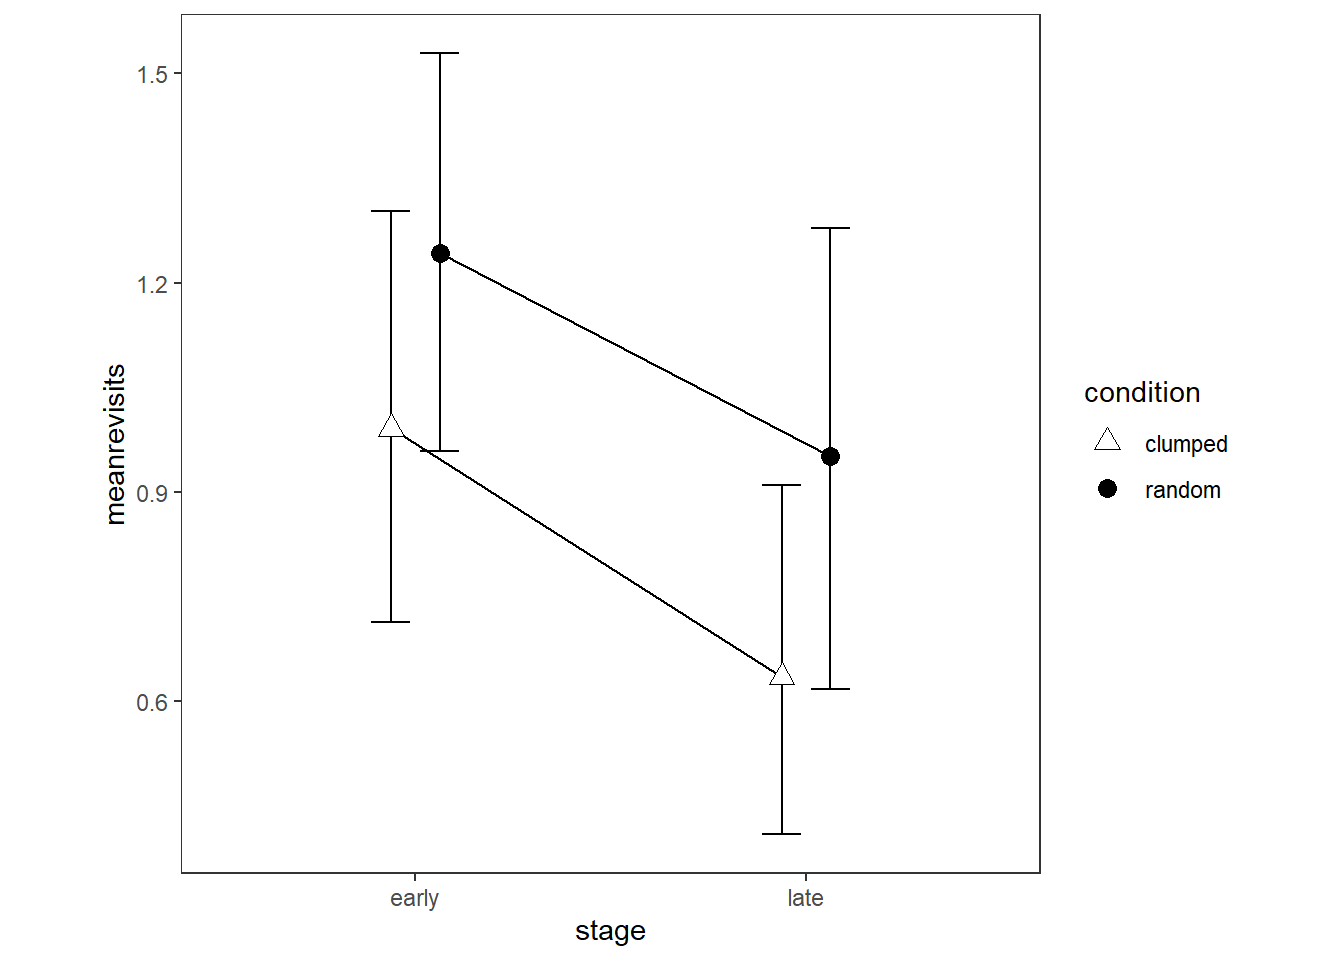
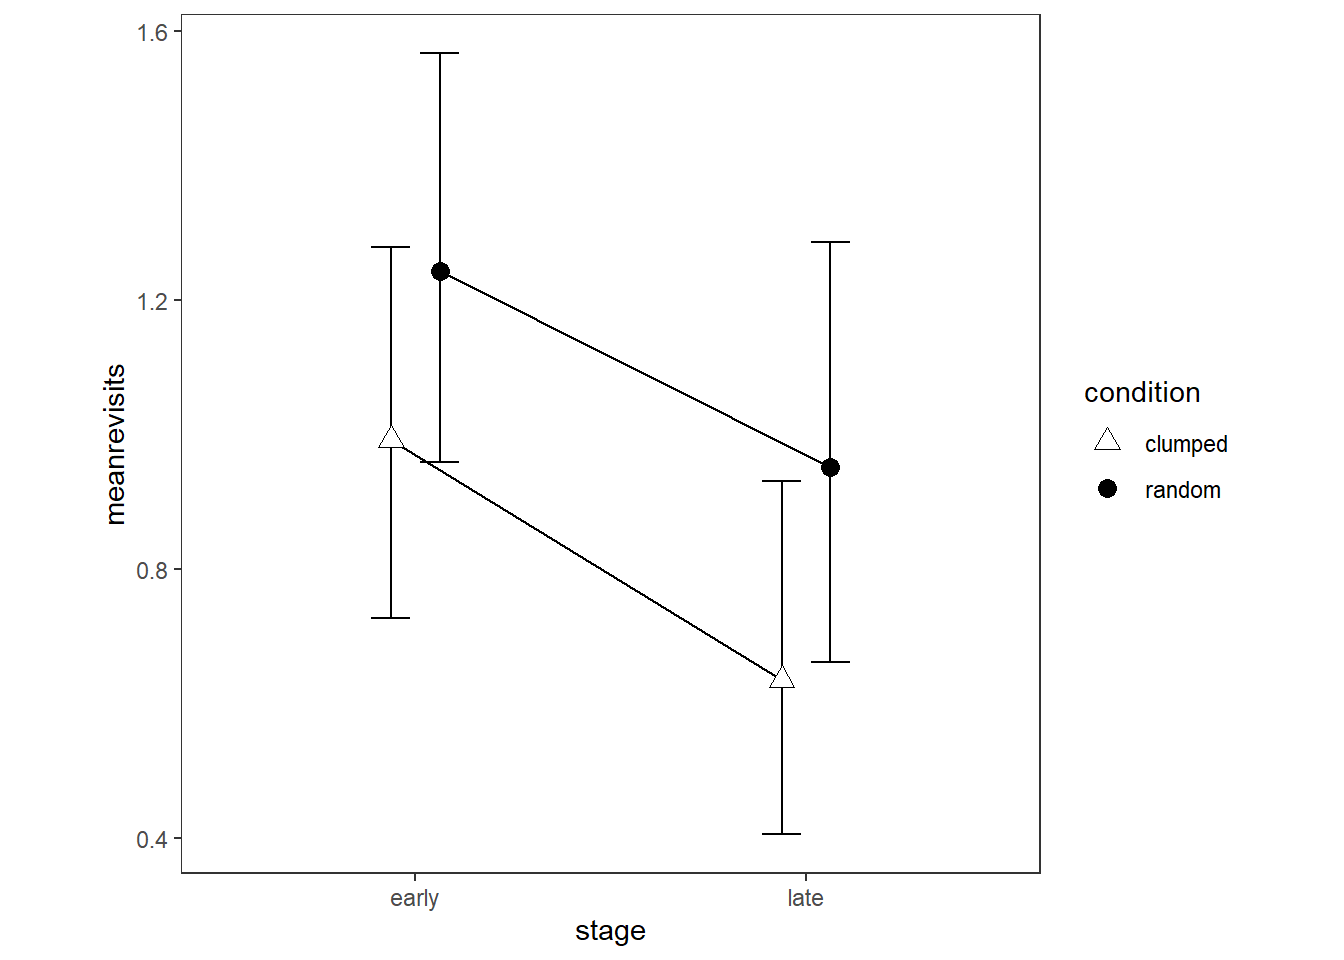
add e2 revisits

diff --git a/docs/number-of-revisits.html b/docs/number-of-revisits.html
@@ -4,17 +4,17 @@
 <meta http-equiv="Content-Type" content="text/html; charset=UTF-8">
 <meta charset="utf-8">
 <meta name="viewport" content="width=device-width, initial-scale=1, shrink-to-fit=no">
-<title>Chapter 4 Trial Duration | Foraging: introducing our gaze-contingent eye-tracking paradigm for studying foraging</title>
+<title>Chapter 11 Number of Revisits | Foraging: introducing our gaze-contingent eye-tracking paradigm for studying foraging</title>
 <meta name="author" content="Matthew Green">
-<meta name="description" content="Contents">
+<meta name="description" content="Experiment 2">
 <meta name="generator" content="bookdown 0.26 with bs4_book()">
-<meta property="og:title" content="Chapter 4 Trial Duration | Foraging: introducing our gaze-contingent eye-tracking paradigm for studying foraging">
+<meta property="og:title" content="Chapter 11 Number of Revisits | Foraging: introducing our gaze-contingent eye-tracking paradigm for studying foraging">
 <meta property="og:type" content="book">
-<meta property="og:url" content="https://mjgreen.github.io/foraging-paradigm-paper-2022/trial-duration.html">
-<meta property="og:description" content="Contents">
+<meta property="og:url" content="https://mjgreen.github.io/foraging-paradigm-paper-2022/number-of-revisits.html">
+<meta property="og:description" content="Experiment 2">
 <meta name="twitter:card" content="summary">
-<meta name="twitter:title" content="Chapter 4 Trial Duration | Foraging: introducing our gaze-contingent eye-tracking paradigm for studying foraging">
-<meta name="twitter:description" content="Contents">
+<meta name="twitter:title" content="Chapter 11 Number of Revisits | Foraging: introducing our gaze-contingent eye-tracking paradigm for studying foraging">
+<meta name="twitter:description" content="Experiment 2">
 <!-- JS --><script src="https://cdnjs.cloudflare.com/ajax/libs/clipboard.js/2.0.6/clipboard.min.js" integrity="sha256-inc5kl9MA1hkeYUt+EC3BhlIgyp/2jDIyBLS6k3UxPI=" crossorigin="anonymous"></script><script src="https://cdnjs.cloudflare.com/ajax/libs/fuse.js/6.4.6/fuse.js" integrity="sha512-zv6Ywkjyktsohkbp9bb45V6tEMoWhzFzXis+LrMehmJZZSys19Yxf1dopHx7WzIKxr5tK2dVcYmaCk2uqdjF4A==" crossorigin="anonymous"></script><script src="https://kit.fontawesome.com/6ecbd6c532.js" crossorigin="anonymous"></script><script src="libs/jquery-3.6.0/jquery-3.6.0.min.js"></script><meta name="viewport" content="width=device-width, initial-scale=1, shrink-to-fit=no">
 <link href="libs/bootstrap-4.6.0/bootstrap.min.css" rel="stylesheet">
 <script src="libs/bootstrap-4.6.0/bootstrap.bundle.min.js"></script><script src="libs/bs3compat-0.3.1/transition.js"></script><script src="libs/bs3compat-0.3.1/tabs.js"></script><script src="libs/bs3compat-0.3.1/bs3compat.js"></script><link href="libs/bs4_book-1.0.0/bs4_book.css" rel="stylesheet">
@@ -48,7 +48,7 @@
 <li class="book-part">Experiment One</li>
 <li><a class="" href="introduction.html"><span class="header-section-number">2</span> Introduction</a></li>
 <li><a class="" href="number-of-trees.html"><span class="header-section-number">3</span> Number of Trees</a></li>
-<li><a class="active" href="trial-duration.html"><span class="header-section-number">4</span> Trial Duration</a></li>
+<li><a class="" href="trial-duration.html"><span class="header-section-number">4</span> Trial Duration</a></li>
 <li><a class="" href="revisits-per-trial.html"><span class="header-section-number">5</span> Revisits Per Trial</a></li>
 <li><a class="" href="retrieval-rate.html"><span class="header-section-number">6</span> Retrieval Rate</a></li>
 <li><a class="" href="inter-tree-distance.html"><span class="header-section-number">7</span> Inter-tree distance</a></li>
@@ -56,7 +56,7 @@
 <li><a class="" href="introduction-1.html"><span class="header-section-number">8</span> Introduction</a></li>
 <li><a class="" href="number-of-trees-1.html"><span class="header-section-number">9</span> Number of trees</a></li>
 <li><a class="" href="trial-duration-1.html"><span class="header-section-number">10</span> Trial Duration</a></li>
-<li><a class="" href="number-of-revisits.html"><span class="header-section-number">11</span> Number of Revisits</a></li>
+<li><a class="active" href="number-of-revisits.html"><span class="header-section-number">11</span> Number of Revisits</a></li>
 <li><a class="" href="retrieval-rate-1.html"><span class="header-section-number">12</span> Retrieval Rate</a></li>
 <li><a class="" href="inter-tree-distance-1.html"><span class="header-section-number">13</span> Inter-tree-distance</a></li>
 <li><a class="" href="references.html">References</a></li>
@@ -70,24 +70,26 @@
         </div>
       </nav>
 </div>
-  </header><main class="col-sm-12 col-md-9 col-lg-7" id="content"><div id="trial-duration" class="section level1" number="4">
+  </header><main class="col-sm-12 col-md-9 col-lg-7" id="content"><div id="number-of-revisits" class="section level1" number="11">
 <h1>
-<span class="header-section-number">4</span> Trial Duration<a class="anchor" aria-label="anchor" href="#trial-duration"><i class="fas fa-link"></i></a>
+<span class="header-section-number">11</span> Number of Revisits<a class="anchor" aria-label="anchor" href="#number-of-revisits"><i class="fas fa-link"></i></a>
 </h1>
-<p>Contents</p>
+<p>Experiment 2</p>
+<div class="inline-figure"><img src="e2_tables/e2_nrevisits_ANOVA.png" width="50%"></div>
+<div class="inline-figure"><img src="e2_plots/e2_nrevisits_PLOT2.png" width="75%"></div>
 
 </div>
   <div class="chapter-nav">
-<div class="prev"><a href="number-of-trees.html"><span class="header-section-number">3</span> Number of Trees</a></div>
-<div class="next"><a href="revisits-per-trial.html"><span class="header-section-number">5</span> Revisits Per Trial</a></div>
+<div class="prev"><a href="trial-duration-1.html"><span class="header-section-number">10</span> Trial Duration</a></div>
+<div class="next"><a href="retrieval-rate-1.html"><span class="header-section-number">12</span> Retrieval Rate</a></div>
 </div></main><div class="col-md-3 col-lg-2 d-none d-md-block sidebar sidebar-chapter">
     <nav id="toc" data-toggle="toc" aria-label="On this page"><h2>On this page</h2>
-      <ul class="nav navbar-nav"><li><a class="nav-link" href="#trial-duration"><span class="header-section-number">4</span> Trial Duration</a></li></ul>
+      <ul class="nav navbar-nav"><li><a class="nav-link" href="#number-of-revisits"><span class="header-section-number">11</span> Number of Revisits</a></li></ul>
 
       <div class="book-extra">
         <ul class="list-unstyled">
-<li><a id="book-source" href="https://mjgreen.github.io/foraging-paradigm-paper-2022//blob/master/001-20-trial-duration.Rmd">View source <i class="fab fa-gitlab"></i></a></li>
-          <li><a id="book-edit" href="https://mjgreen.github.io/foraging-paradigm-paper-2022//edit/master/001-20-trial-duration.Rmd">Edit this page <i class="fab fa-gitlab"></i></a></li>
+<li><a id="book-source" href="https://mjgreen.github.io/foraging-paradigm-paper-2022//blob/master/002-30-revisits-per-trial.Rmd">View source <i class="fab fa-gitlab"></i></a></li>
+          <li><a id="book-edit" href="https://mjgreen.github.io/foraging-paradigm-paper-2022//edit/master/002-30-revisits-per-trial.Rmd">Edit this page <i class="fab fa-gitlab"></i></a></li>
         </ul>
 </div>
     </nav>

diff --git a/docs/trial-duration-1.html b/docs/trial-duration-1.html
@@ -56,7 +56,7 @@
 <li><a class="" href="introduction-1.html"><span class="header-section-number">8</span> Introduction</a></li>
 <li><a class="" href="number-of-trees-1.html"><span class="header-section-number">9</span> Number of trees</a></li>
 <li><a class="active" href="trial-duration-1.html"><span class="header-section-number">10</span> Trial Duration</a></li>
-<li><a class="" href="revisits-per-trial-1.html"><span class="header-section-number">11</span> Revisits Per Trial</a></li>
+<li><a class="" href="number-of-revisits.html"><span class="header-section-number">11</span> Number of Revisits</a></li>
 <li><a class="" href="retrieval-rate-1.html"><span class="header-section-number">12</span> Retrieval Rate</a></li>
 <li><a class="" href="inter-tree-distance-1.html"><span class="header-section-number">13</span> Inter-tree-distance</a></li>
 <li><a class="" href="references.html">References</a></li>
@@ -81,7 +81,7 @@
 </div>
   <div class="chapter-nav">
 <div class="prev"><a href="number-of-trees-1.html"><span class="header-section-number">9</span> Number of trees</a></div>
-<div class="next"><a href="revisits-per-trial-1.html"><span class="header-section-number">11</span> Revisits Per Trial</a></div>
+<div class="next"><a href="number-of-revisits.html"><span class="header-section-number">11</span> Number of Revisits</a></div>
 </div></main><div class="col-md-3 col-lg-2 d-none d-md-block sidebar sidebar-chapter">
     <nav id="toc" data-toggle="toc" aria-label="On this page"><h2>On this page</h2>
       <ul class="nav navbar-nav"><li><a class="nav-link" href="#trial-duration-1"><span class="header-section-number">10</span> Trial Duration</a></li></ul>
@@ -101,7 +101,7 @@
 <footer class="bg-primary text-light mt-5"><div class="container"><div class="row">
 
   <div class="col-12 col-md-6 mt-3">
-    <p>"<strong>Foraging: introducing our gaze-contingent eye-tracking paradigm for studying foraging</strong>" was written by Matthew Green. It was last built on Tuesday 17 May 2022 at 19:25:00.</p>
+    <p>"<strong>Foraging: introducing our gaze-contingent eye-tracking paradigm for studying foraging</strong>" was written by Matthew Green. It was last built on Tuesday 17 May 2022 at 19:39:22.</p>
   </div>
 
   <div class="col-12 col-md-6 mt-3">

diff --git a/docs/retrieval-rate-1.html b/docs/retrieval-rate-1.html
@@ -56,7 +56,7 @@
 <li><a class="" href="introduction-1.html"><span class="header-section-number">8</span> Introduction</a></li>
 <li><a class="" href="number-of-trees-1.html"><span class="header-section-number">9</span> Number of trees</a></li>
 <li><a class="" href="trial-duration-1.html"><span class="header-section-number">10</span> Trial Duration</a></li>
-<li><a class="" href="revisits-per-trial-1.html"><span class="header-section-number">11</span> Revisits Per Trial</a></li>
+<li><a class="" href="number-of-revisits.html"><span class="header-section-number">11</span> Number of Revisits</a></li>
 <li><a class="active" href="retrieval-rate-1.html"><span class="header-section-number">12</span> Retrieval Rate</a></li>
 <li><a class="" href="inter-tree-distance-1.html"><span class="header-section-number">13</span> Inter-tree-distance</a></li>
 <li><a class="" href="references.html">References</a></li>
@@ -78,7 +78,7 @@
 
 </div>
   <div class="chapter-nav">
-<div class="prev"><a href="revisits-per-trial-1.html"><span class="header-section-number">11</span> Revisits Per Trial</a></div>
+<div class="prev"><a href="number-of-revisits.html"><span class="header-section-number">11</span> Number of Revisits</a></div>
 <div class="next"><a href="inter-tree-distance-1.html"><span class="header-section-number">13</span> Inter-tree-distance</a></div>
 </div></main><div class="col-md-3 col-lg-2 d-none d-md-block sidebar sidebar-chapter">
     <nav id="toc" data-toggle="toc" aria-label="On this page"><h2>On this page</h2>
@@ -99,7 +99,7 @@
 <footer class="bg-primary text-light mt-5"><div class="container"><div class="row">
 
   <div class="col-12 col-md-6 mt-3">
-    <p>"<strong>Foraging: introducing our gaze-contingent eye-tracking paradigm for studying foraging</strong>" was written by Matthew Green. It was last built on Tuesday 17 May 2022 at 19:25:00.</p>
+    <p>"<strong>Foraging: introducing our gaze-contingent eye-tracking paradigm for studying foraging</strong>" was written by Matthew Green. It was last built on Tuesday 17 May 2022 at 19:39:22.</p>
   </div>
 
   <div class="col-12 col-md-6 mt-3">

diff --git a/docs/references.html b/docs/references.html
@@ -62,7 +62,7 @@ set in the _output.yml file.&lt;/p&gt;">
 <li><a class="" href="introduction-1.html"><span class="header-section-number">8</span> Introduction</a></li>
 <li><a class="" href="number-of-trees-1.html"><span class="header-section-number">9</span> Number of trees</a></li>
 <li><a class="" href="trial-duration-1.html"><span class="header-section-number">10</span> Trial Duration</a></li>
-<li><a class="" href="revisits-per-trial-1.html"><span class="header-section-number">11</span> Revisits Per Trial</a></li>
+<li><a class="" href="number-of-revisits.html"><span class="header-section-number">11</span> Number of Revisits</a></li>
 <li><a class="" href="retrieval-rate-1.html"><span class="header-section-number">12</span> Retrieval Rate</a></li>
 <li><a class="" href="inter-tree-distance-1.html"><span class="header-section-number">13</span> Inter-tree-distance</a></li>
 <li><a class="active" href="references.html">References</a></li>
@@ -106,7 +106,7 @@ set in the _output.yml file.&lt;/p&gt;">
 <footer class="bg-primary text-light mt-5"><div class="container"><div class="row">
 
   <div class="col-12 col-md-6 mt-3">
-    <p>"<strong>Foraging: introducing our gaze-contingent eye-tracking paradigm for studying foraging</strong>" was written by Matthew Green. It was last built on Tuesday 17 May 2022 at 19:25:00.</p>
+    <p>"<strong>Foraging: introducing our gaze-contingent eye-tracking paradigm for studying foraging</strong>" was written by Matthew Green. It was last built on Tuesday 17 May 2022 at 19:39:22.</p>
   </div>
 
   <div class="col-12 col-md-6 mt-3">

diff --git a/docs/index.html b/docs/index.html
@@ -62,7 +62,7 @@ set in the _output.yml file.&lt;/p&gt;">
 <li><a class="" href="introduction-1.html"><span class="header-section-number">8</span> Introduction</a></li>
 <li><a class="" href="number-of-trees-1.html"><span class="header-section-number">9</span> Number of trees</a></li>
 <li><a class="" href="trial-duration-1.html"><span class="header-section-number">10</span> Trial Duration</a></li>
-<li><a class="" href="revisits-per-trial-1.html"><span class="header-section-number">11</span> Revisits Per Trial</a></li>
+<li><a class="" href="number-of-revisits.html"><span class="header-section-number">11</span> Number of Revisits</a></li>
 <li><a class="" href="retrieval-rate-1.html"><span class="header-section-number">12</span> Retrieval Rate</a></li>
 <li><a class="" href="inter-tree-distance-1.html"><span class="header-section-number">13</span> Inter-tree-distance</a></li>
 <li><a class="" href="references.html">References</a></li>
@@ -108,7 +108,7 @@ set in the _output.yml file.&lt;/p&gt;">
 <footer class="bg-primary text-light mt-5"><div class="container"><div class="row">
 
   <div class="col-12 col-md-6 mt-3">
-    <p>"<strong>Foraging: introducing our gaze-contingent eye-tracking paradigm for studying foraging</strong>" was written by Matthew Green. It was last built on Tuesday 17 May 2022 at 19:25:00.</p>
+    <p>"<strong>Foraging: introducing our gaze-contingent eye-tracking paradigm for studying foraging</strong>" was written by Matthew Green. It was last built on Tuesday 17 May 2022 at 19:39:22.</p>
   </div>
 
   <div class="col-12 col-md-6 mt-3">

diff --git a/docs/404.html b/docs/404.html
@@ -56,7 +56,7 @@
 <li><a class="" href="introduction-1.html"><span class="header-section-number">8</span> Introduction</a></li>
 <li><a class="" href="number-of-trees-1.html"><span class="header-section-number">9</span> Number of trees</a></li>
 <li><a class="" href="trial-duration-1.html"><span class="header-section-number">10</span> Trial Duration</a></li>
-<li><a class="" href="revisits-per-trial-1.html"><span class="header-section-number">11</span> Revisits Per Trial</a></li>
+<li><a class="" href="number-of-revisits.html"><span class="header-section-number">11</span> Number of Revisits</a></li>
 <li><a class="" href="retrieval-rate-1.html"><span class="header-section-number">12</span> Retrieval Rate</a></li>
 <li><a class="" href="inter-tree-distance-1.html"><span class="header-section-number">13</span> Inter-tree-distance</a></li>
 <li><a class="" href="references.html">References</a></li>
@@ -89,7 +89,7 @@ the table of contents to find the page you are looking for.</p>
 <footer class="bg-primary text-light mt-5"><div class="container"><div class="row">
 
   <div class="col-12 col-md-6 mt-3">
-    <p>"<strong>Foraging: introducing our gaze-contingent eye-tracking paradigm for studying foraging</strong>" was written by Matthew Green. It was last built on Tuesday 17 May 2022 at 19:25:00.</p>
+    <p>"<strong>Foraging: introducing our gaze-contingent eye-tracking paradigm for studying foraging</strong>" was written by Matthew Green. It was last built on Tuesday 17 May 2022 at 19:39:22.</p>
   </div>
 
   <div class="col-12 col-md-6 mt-3">

diff --git a/docs/introduction-1.html b/docs/introduction-1.html
@@ -56,7 +56,7 @@
 <li><a class="active" href="introduction-1.html"><span class="header-section-number">8</span> Introduction</a></li>
 <li><a class="" href="number-of-trees-1.html"><span class="header-section-number">9</span> Number of trees</a></li>
 <li><a class="" href="trial-duration-1.html"><span class="header-section-number">10</span> Trial Duration</a></li>
-<li><a class="" href="revisits-per-trial-1.html"><span class="header-section-number">11</span> Revisits Per Trial</a></li>
+<li><a class="" href="number-of-revisits.html"><span class="header-section-number">11</span> Number of Revisits</a></li>
 <li><a class="" href="retrieval-rate-1.html"><span class="header-section-number">12</span> Retrieval Rate</a></li>
 <li><a class="" href="inter-tree-distance-1.html"><span class="header-section-number">13</span> Inter-tree-distance</a></li>
 <li><a class="" href="references.html">References</a></li>
@@ -105,7 +105,7 @@
 <footer class="bg-primary text-light mt-5"><div class="container"><div class="row">
 
   <div class="col-12 col-md-6 mt-3">
-    <p>"<strong>Foraging: introducing our gaze-contingent eye-tracking paradigm for studying foraging</strong>" was written by Matthew Green. It was last built on Tuesday 17 May 2022 at 19:25:00.</p>
+    <p>"<strong>Foraging: introducing our gaze-contingent eye-tracking paradigm for studying foraging</strong>" was written by Matthew Green. It was last built on Tuesday 17 May 2022 at 19:39:22.</p>
   </div>
 
   <div class="col-12 col-md-6 mt-3">

diff --git a/docs/number-of-trees-1.html b/docs/number-of-trees-1.html
@@ -56,7 +56,7 @@
 <li><a class="" href="introduction-1.html"><span class="header-section-number">8</span> Introduction</a></li>
 <li><a class="active" href="number-of-trees-1.html"><span class="header-section-number">9</span> Number of trees</a></li>
 <li><a class="" href="trial-duration-1.html"><span class="header-section-number">10</span> Trial Duration</a></li>
-<li><a class="" href="revisits-per-trial-1.html"><span class="header-section-number">11</span> Revisits Per Trial</a></li>
+<li><a class="" href="number-of-revisits.html"><span class="header-section-number">11</span> Number of Revisits</a></li>
 <li><a class="" href="retrieval-rate-1.html"><span class="header-section-number">12</span> Retrieval Rate</a></li>
 <li><a class="" href="inter-tree-distance-1.html"><span class="header-section-number">13</span> Inter-tree-distance</a></li>
 <li><a class="" href="references.html">References</a></li>
@@ -101,7 +101,7 @@
 <footer class="bg-primary text-light mt-5"><div class="container"><div class="row">
 
   <div class="col-12 col-md-6 mt-3">
-    <p>"<strong>Foraging: introducing our gaze-contingent eye-tracking paradigm for studying foraging</strong>" was written by Matthew Green. It was last built on Tuesday 17 May 2022 at 19:25:00.</p>
+    <p>"<strong>Foraging: introducing our gaze-contingent eye-tracking paradigm for studying foraging</strong>" was written by Matthew Green. It was last built on Tuesday 17 May 2022 at 19:39:22.</p>
   </div>
 
   <div class="col-12 col-md-6 mt-3">

diff --git a/docs/inter-tree-distance-1.html b/docs/inter-tree-distance-1.html
@@ -56,7 +56,7 @@
 <li><a class="" href="introduction-1.html"><span class="header-section-number">8</span> Introduction</a></li>
 <li><a class="" href="number-of-trees-1.html"><span class="header-section-number">9</span> Number of trees</a></li>
 <li><a class="" href="trial-duration-1.html"><span class="header-section-number">10</span> Trial Duration</a></li>
-<li><a class="" href="revisits-per-trial-1.html"><span class="header-section-number">11</span> Revisits Per Trial</a></li>
+<li><a class="" href="number-of-revisits.html"><span class="header-section-number">11</span> Number of Revisits</a></li>
 <li><a class="" href="retrieval-rate-1.html"><span class="header-section-number">12</span> Retrieval Rate</a></li>
 <li><a class="active" href="inter-tree-distance-1.html"><span class="header-section-number">13</span> Inter-tree-distance</a></li>
 <li><a class="" href="references.html">References</a></li>
@@ -99,7 +99,7 @@
 <footer class="bg-primary text-light mt-5"><div class="container"><div class="row">
 
   <div class="col-12 col-md-6 mt-3">
-    <p>"<strong>Foraging: introducing our gaze-contingent eye-tracking paradigm for studying foraging</strong>" was written by Matthew Green. It was last built on Tuesday 17 May 2022 at 19:25:00.</p>
+    <p>"<strong>Foraging: introducing our gaze-contingent eye-tracking paradigm for studying foraging</strong>" was written by Matthew Green. It was last built on Tuesday 17 May 2022 at 19:39:22.</p>
   </div>
 
   <div class="col-12 col-md-6 mt-3">

diff --git a/docs/inter-tree-distance.html b/docs/inter-tree-distance.html
@@ -56,7 +56,7 @@
 <li><a class="" href="introduction-1.html"><span class="header-section-number">8</span> Introduction</a></li>
 <li><a class="" href="number-of-trees-1.html"><span class="header-section-number">9</span> Number of trees</a></li>
 <li><a class="" href="trial-duration-1.html"><span class="header-section-number">10</span> Trial Duration</a></li>
-<li><a class="" href="revisits-per-trial-1.html"><span class="header-section-number">11</span> Revisits Per Trial</a></li>
+<li><a class="" href="number-of-revisits.html"><span class="header-section-number">11</span> Number of Revisits</a></li>
 <li><a class="" href="retrieval-rate-1.html"><span class="header-section-number">12</span> Retrieval Rate</a></li>
 <li><a class="" href="inter-tree-distance-1.html"><span class="header-section-number">13</span> Inter-tree-distance</a></li>
 <li><a class="" href="references.html">References</a></li>
@@ -102,7 +102,7 @@
 <footer class="bg-primary text-light mt-5"><div class="container"><div class="row">
 
   <div class="col-12 col-md-6 mt-3">
-    <p>"<strong>Foraging: introducing our gaze-contingent eye-tracking paradigm for studying foraging</strong>" was written by Matthew Green. It was last built on Tuesday 17 May 2022 at 19:25:00.</p>
+    <p>"<strong>Foraging: introducing our gaze-contingent eye-tracking paradigm for studying foraging</strong>" was written by Matthew Green. It was last built on Tuesday 17 May 2022 at 19:39:22.</p>
   </div>
 
   <div class="col-12 col-md-6 mt-3">

diff --git a/docs/introduction.html b/docs/introduction.html
@@ -56,7 +56,7 @@
 <li><a class="" href="introduction-1.html"><span class="header-section-number">8</span> Introduction</a></li>
 <li><a class="" href="number-of-trees-1.html"><span class="header-section-number">9</span> Number of trees</a></li>
 <li><a class="" href="trial-duration-1.html"><span class="header-section-number">10</span> Trial Duration</a></li>
-<li><a class="" href="revisits-per-trial-1.html"><span class="header-section-number">11</span> Revisits Per Trial</a></li>
+<li><a class="" href="number-of-revisits.html"><span class="header-section-number">11</span> Number of Revisits</a></li>
 <li><a class="" href="retrieval-rate-1.html"><span class="header-section-number">12</span> Retrieval Rate</a></li>
 <li><a class="" href="inter-tree-distance-1.html"><span class="header-section-number">13</span> Inter-tree-distance</a></li>
 <li><a class="" href="references.html">References</a></li>
@@ -104,7 +104,7 @@
 <footer class="bg-primary text-light mt-5"><div class="container"><div class="row">
 
   <div class="col-12 col-md-6 mt-3">
-    <p>"<strong>Foraging: introducing our gaze-contingent eye-tracking paradigm for studying foraging</strong>" was written by Matthew Green. It was last built on Tuesday 17 May 2022 at 19:25:00.</p>
+    <p>"<strong>Foraging: introducing our gaze-contingent eye-tracking paradigm for studying foraging</strong>" was written by Matthew Green. It was last built on Tuesday 17 May 2022 at 19:39:22.</p>
   </div>
 
   <div class="col-12 col-md-6 mt-3">

diff --git a/docs/revisits-per-trial.html b/docs/revisits-per-trial.html
@@ -56,7 +56,7 @@
 <li><a class="" href="introduction-1.html"><span class="header-section-number">8</span> Introduction</a></li>
 <li><a class="" href="number-of-trees-1.html"><span class="header-section-number">9</span> Number of trees</a></li>
 <li><a class="" href="trial-duration-1.html"><span class="header-section-number">10</span> Trial Duration</a></li>
-<li><a class="" href="revisits-per-trial-1.html"><span class="header-section-number">11</span> Revisits Per Trial</a></li>
+<li><a class="" href="number-of-revisits.html"><span class="header-section-number">11</span> Number of Revisits</a></li>
 <li><a class="" href="retrieval-rate-1.html"><span class="header-section-number">12</span> Retrieval Rate</a></li>
 <li><a class="" href="inter-tree-distance-1.html"><span class="header-section-number">13</span> Inter-tree-distance</a></li>
 <li><a class="" href="references.html">References</a></li>
@@ -233,7 +233,7 @@
 <footer class="bg-primary text-light mt-5"><div class="container"><div class="row">
 
   <div class="col-12 col-md-6 mt-3">
-    <p>"<strong>Foraging: introducing our gaze-contingent eye-tracking paradigm for studying foraging</strong>" was written by Matthew Green. It was last built on Tuesday 17 May 2022 at 19:25:00.</p>
+    <p>"<strong>Foraging: introducing our gaze-contingent eye-tracking paradigm for studying foraging</strong>" was written by Matthew Green. It was last built on Tuesday 17 May 2022 at 19:39:22.</p>
   </div>
 
   <div class="col-12 col-md-6 mt-3">
